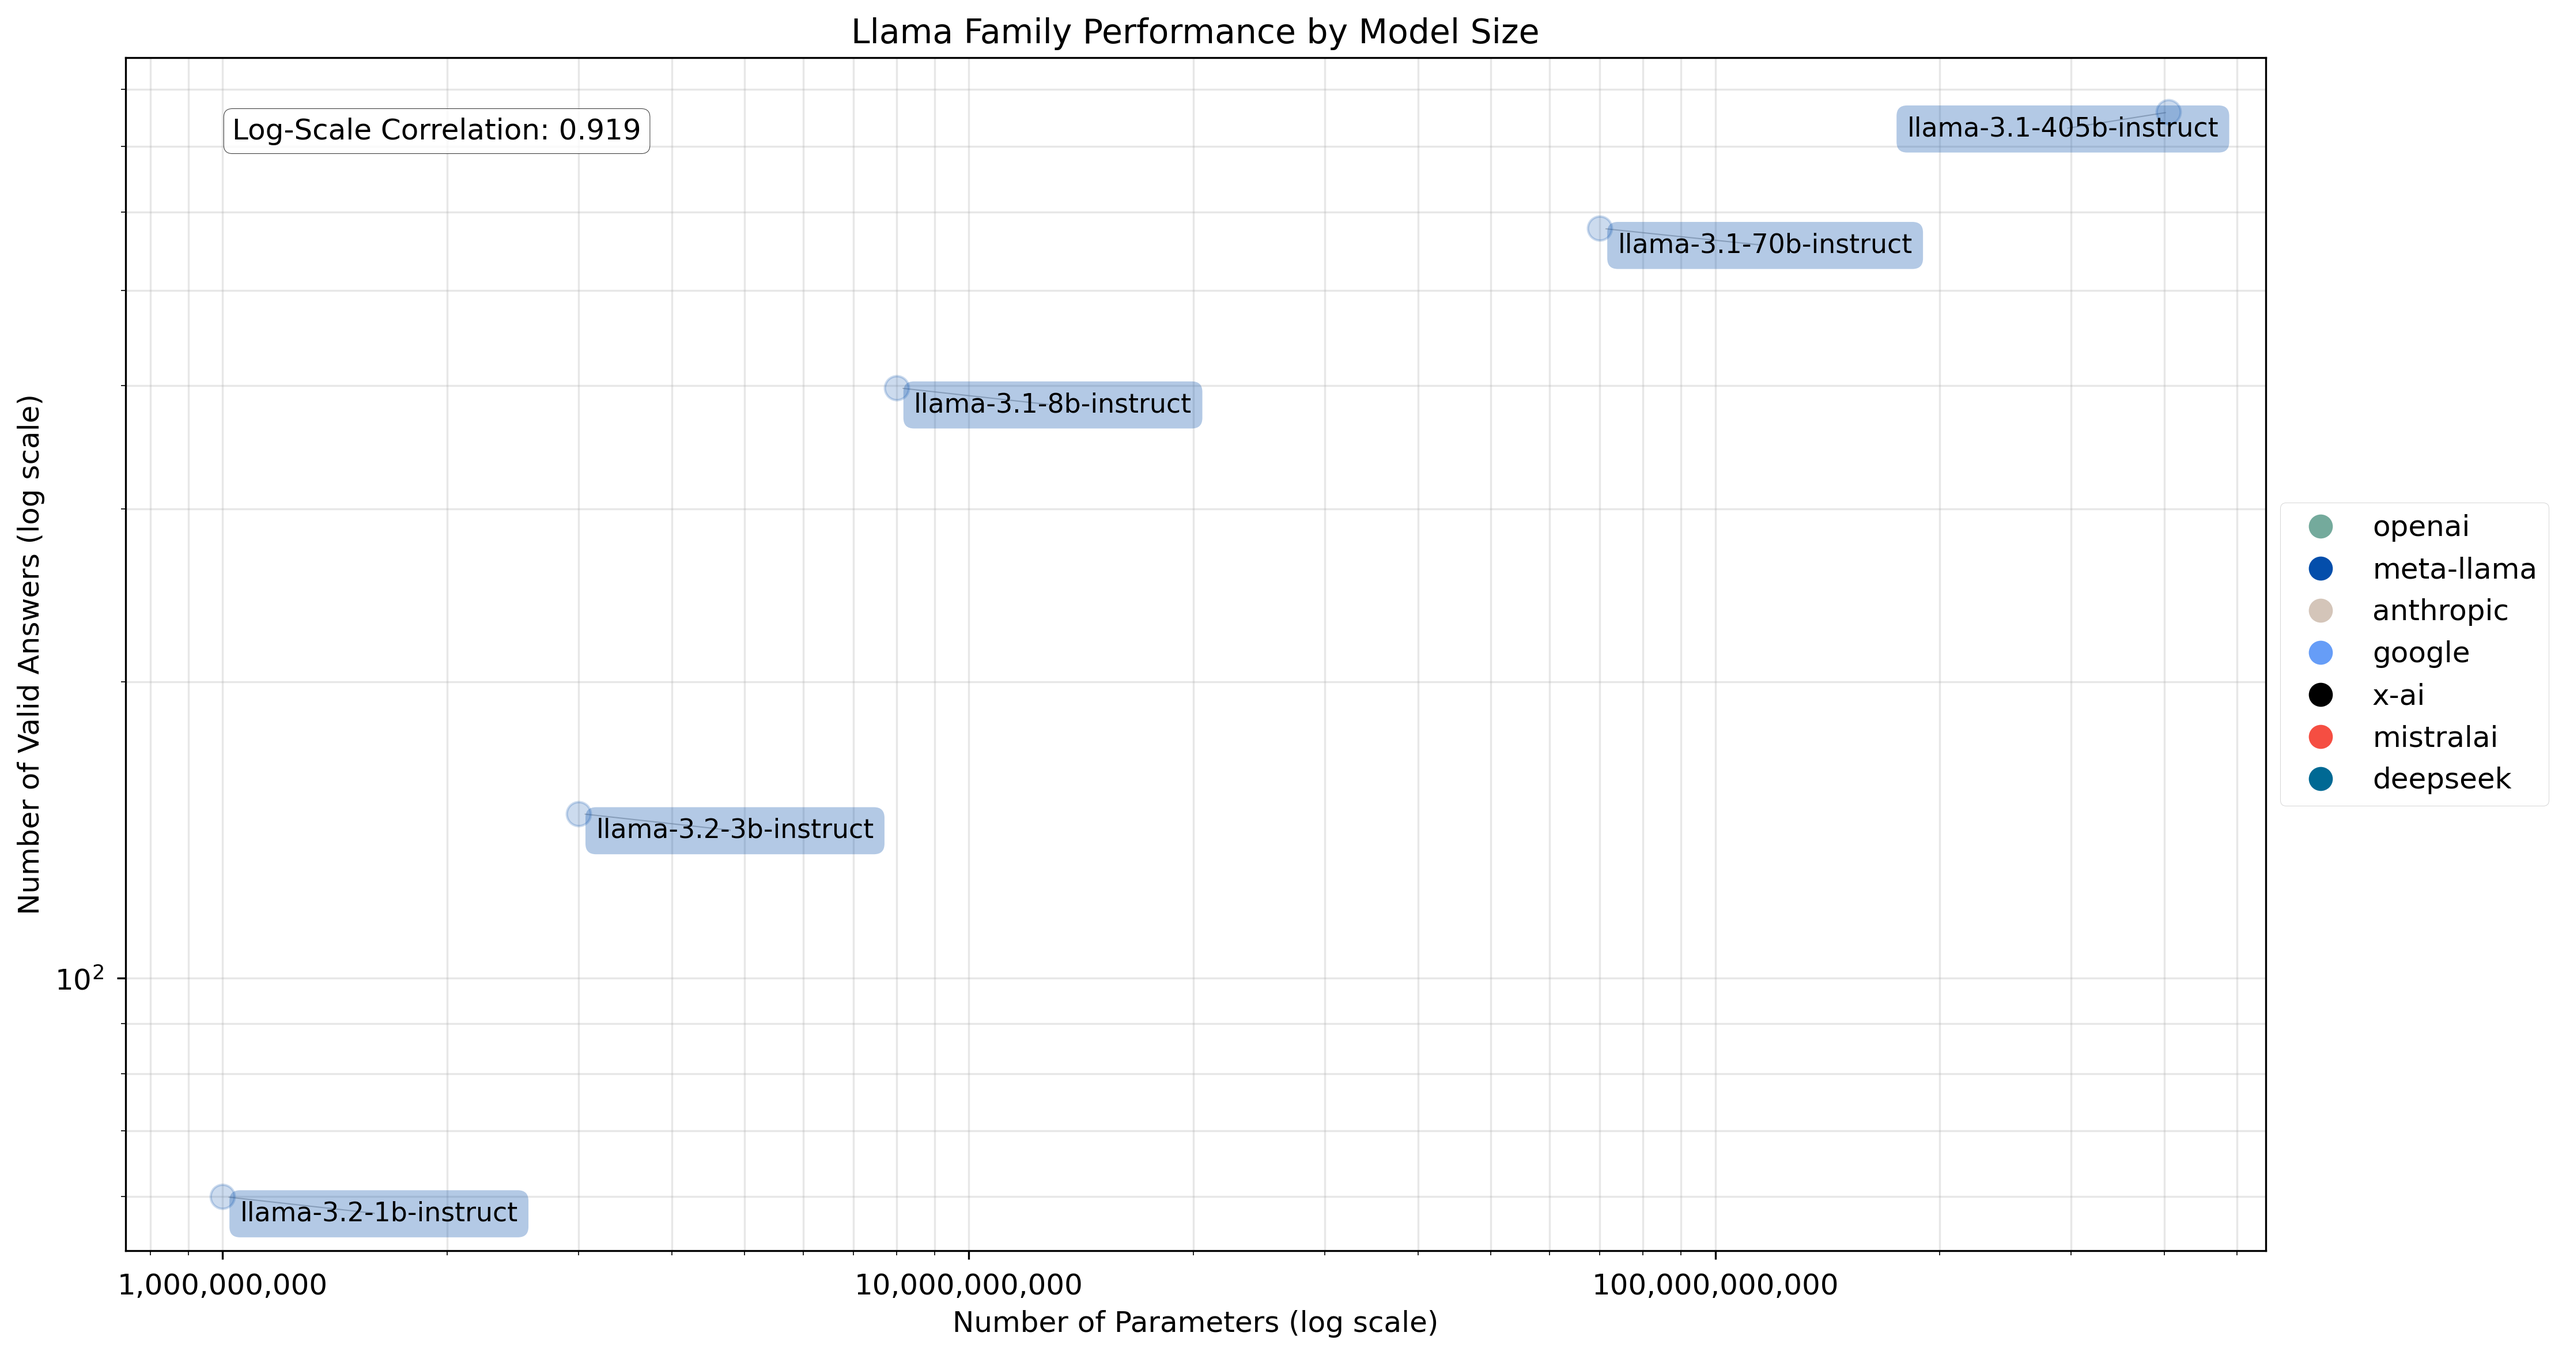
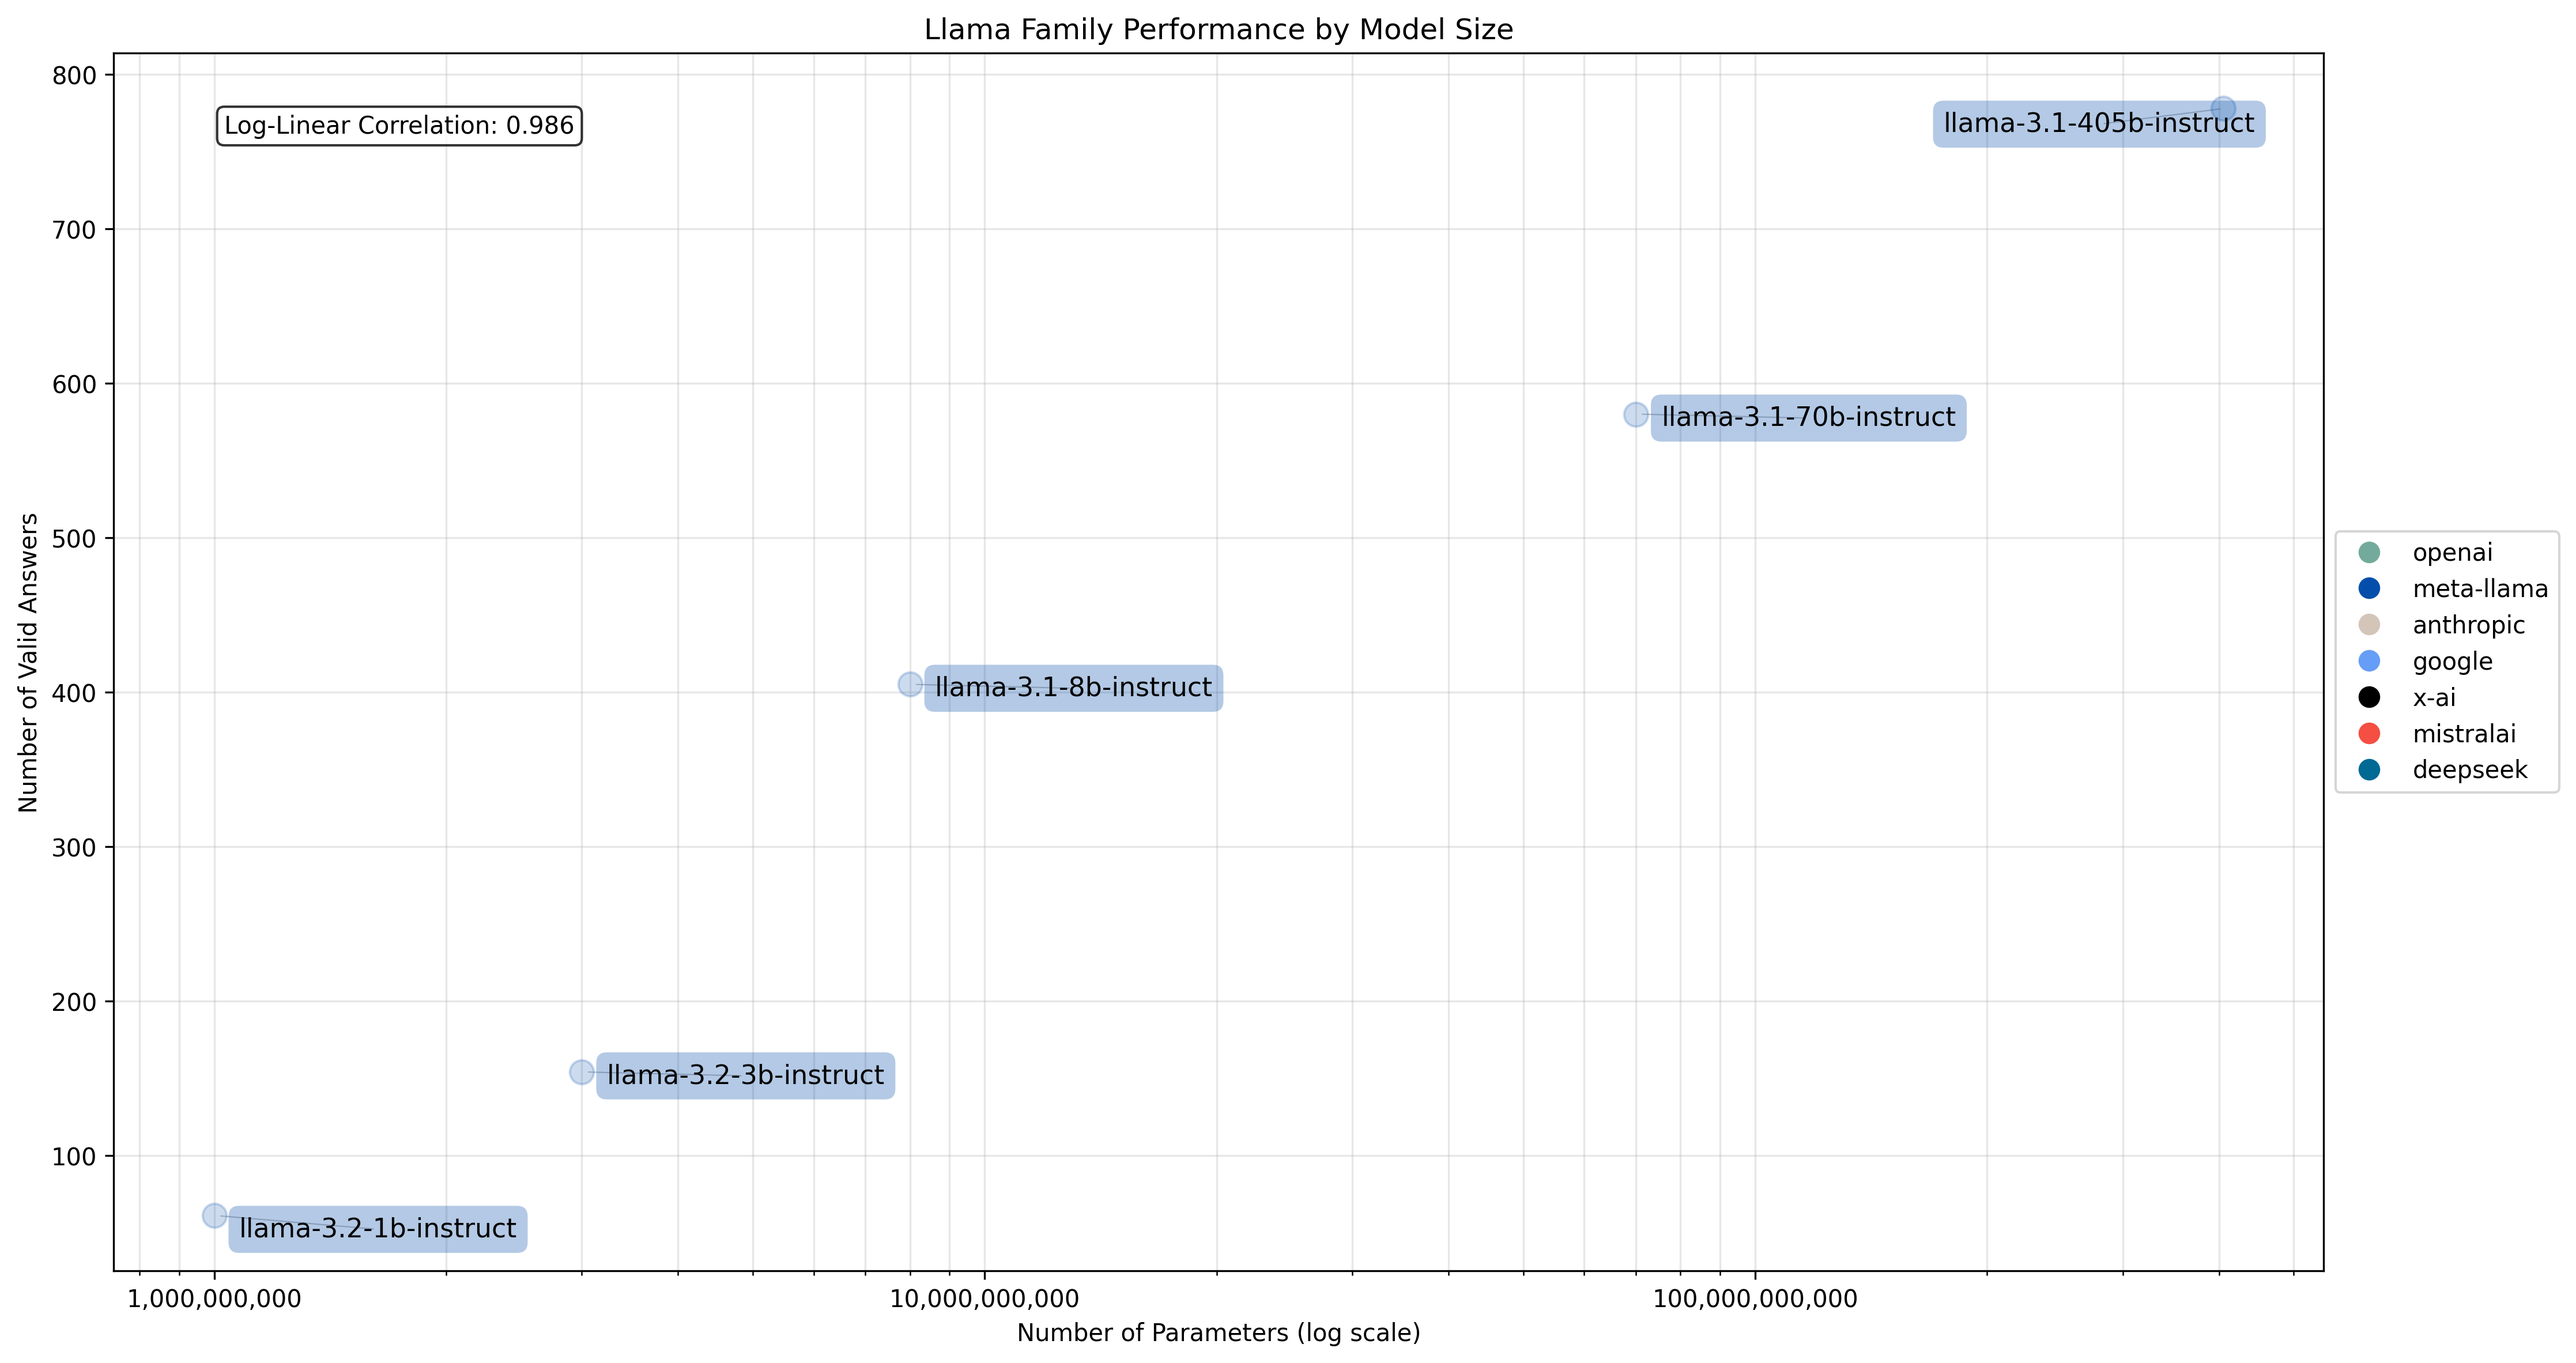
update

diff --git a/plot.py b/plot.py
@@ -1,3 +1,4 @@
+# %%
 import json
 import numpy as np
 import matplotlib.pyplot as plt
@@ -1044,9 +1045,8 @@ def create_parameter_plots(results: dict,
                   linewidth=1,
                   zorder=10)
     
-    # Set scales before adding labels
+    # Set x scale to log (keeping y scale linear)
     ax.set_xscale('log')
-    ax.set_yscale('log')
     
     # Add labels with adjusted positions
     texts = []
@@ -1061,19 +1061,19 @@ def create_parameter_plots(results: dict,
     # Adjust labels with optimized parameters
     _adjust_labels(texts, ax)
     
-    # Calculate correlation with log values
+    # Calculate correlation with log x values but linear y values
     log_params = np.log10([d['parameters'] for d in plot_data])
-    log_answers = np.log10([d['answers'] for d in plot_data])
-    correlation = np.corrcoef(log_params, log_answers)[0, 1]
+    answers = [d['answers'] for d in plot_data]
+    correlation = np.corrcoef(log_params, answers)[0, 1]
     
     # Add correlation text
-    plt.text(0.05, 0.95, f'Log-Scale Correlation: {correlation:.3f}',
+    plt.text(0.05, 0.95, f'Log-Linear Correlation: {correlation:.3f}',
             transform=plt.gca().transAxes,
             verticalalignment='top',
             bbox=dict(boxstyle='round', facecolor='white', alpha=0.8))
     
     plt.xlabel('Number of Parameters (log scale)')
-    plt.ylabel('Number of Valid Answers (log scale)')
+    plt.ylabel('Number of Valid Answers')
     plt.title('Llama Family Performance by Model Size')
     
     # Format x-axis tick labels
@@ -2106,15 +2106,15 @@ def create_best_timeline_plots(results: dict,
     plt.savefig(Path(output_dir) / 'model_timeline_best.png', dpi=300, bbox_inches='tight')
     plt.close()
 
-if __name__ == "__main__":
-    from benchmark.model_list import release_dates, model_scales, model_prices, lmsys_scores
+# if __name__ == "__main__":
+#     from benchmark.model_list import release_dates, model_scales, model_prices, lmsys_scores
     
-    analyze_model_performance(
-        results_file='results.json',
-        release_dates=release_dates,
-        model_scales=model_scales,
-        model_prices=model_prices,
-        lmsys_scores=lmsys_scores,
-        output_dir='plots'
-    )
+#     analyze_model_performance(
+#         results_file='results.json',
+#         release_dates=release_dates,
+#         model_scales=model_scales,
+#         model_prices=model_prices,
+#         lmsys_scores=lmsys_scores,
+#         output_dir='plots'
+#     )
     

diff --git a/benchmark/model_list.py b/benchmark/model_list.py
@@ -33,7 +33,9 @@ models = [
     "google/gemma-2-9b-it",
     "google/gemini-2.0-flash-exp",
     "google/gemini-2.0-flash-thinking-exp-1219",
+    "google/gemini-2.5-pro-preview-03-25",
     "x-ai/grok-beta",
+    "x-ai/grok-3-beta",
     "mistralai/mixtral-8x22b-instruct",
     "mistralai/mistral-large-latest",
     "mistralai/mistral-7b-instruct-v0.3",
@@ -182,9 +184,6 @@ model_scales = [
 ]
 
 model_subset = [
-    "openai/gpt-4o-mini-2024-07-18",
-    "meta-llama/llama-3.1-70b-instruct",
-    "google/gemini-flash-1.5-8b",
-    "anthropic/claude-3.5-sonnet",  # New Sonnet
-    "gpt-4-turbo"
+    "google/gemini-2.5-pro-preview-03-25",
+    "x-ai/grok-3-beta"
 ]
